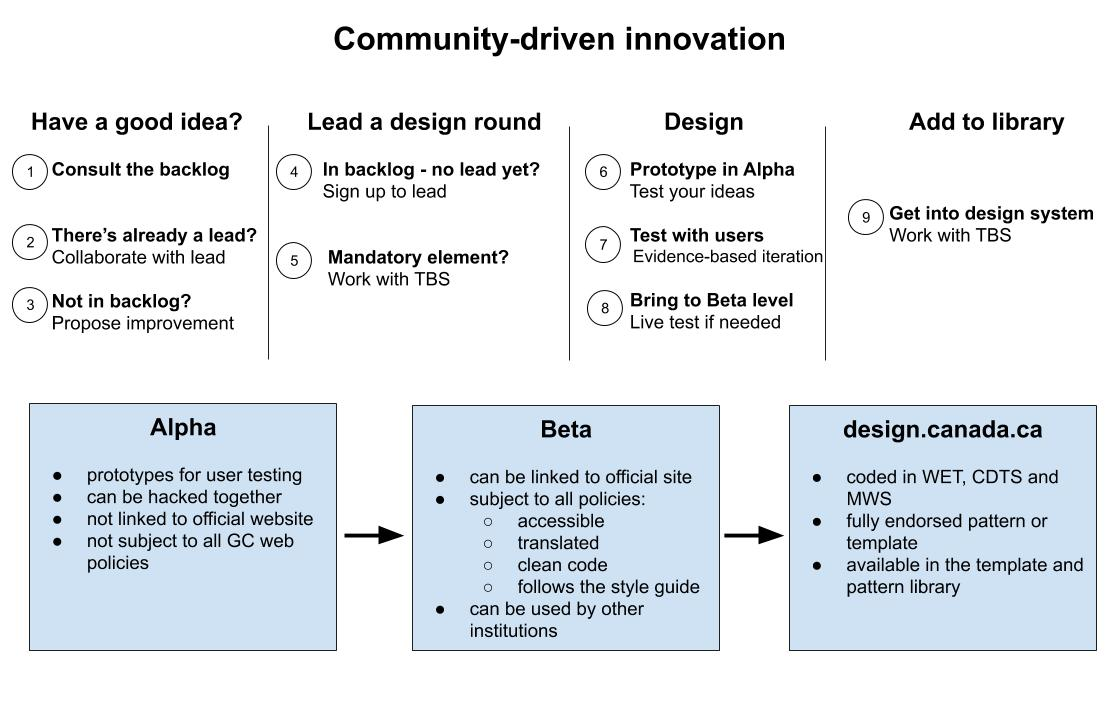
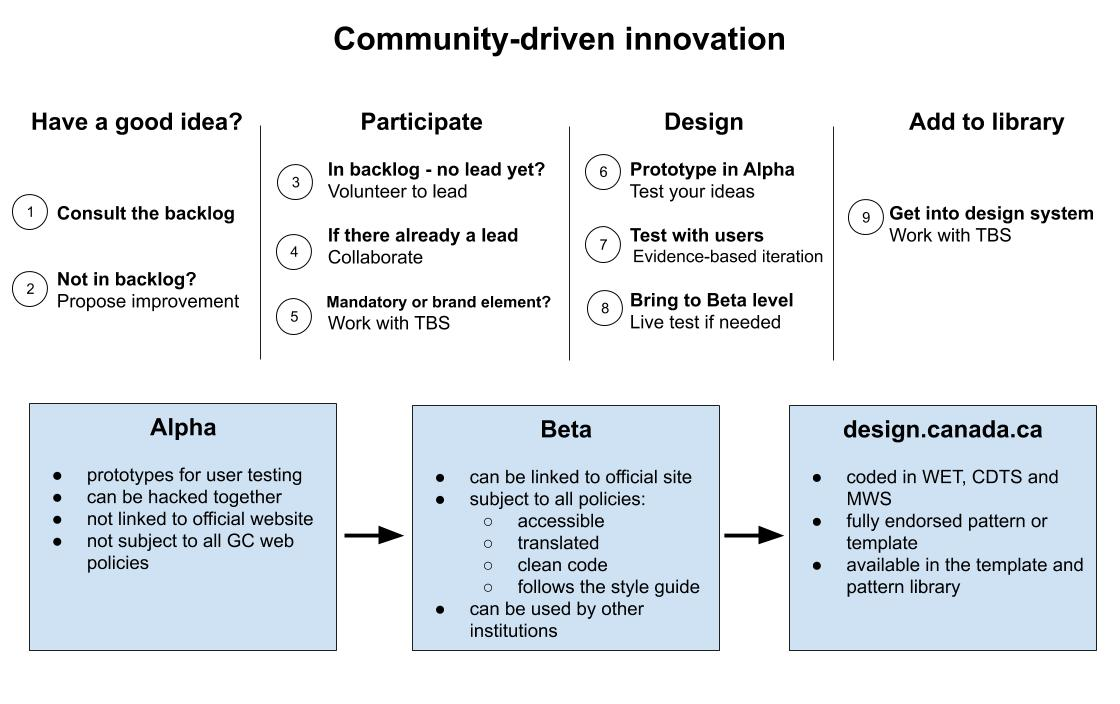
Change to wording

diff --git a/backlog/improvement-process.html b/backlog/improvement-process.html
@@ -61,8 +61,8 @@
 <h2>On this page</h2>
 	<ul>
 	<li><a href="#overall">Overall process</a></li>
-	<li><a href="#backlog">Backlog</a></li>
-	<li><a href="#leading">Leading a design round</a></li>
+	<li><a href="#backlog">Improvement backlog</a></li>
+	<li><a href="#leading">Participate in a design round</a></li>
 	<li><a href="#design">Design and test the new or updated pattern</a></li>
 	<li><a href="#add">Add to template and pattern library</a></li>
 	</ul>
@@ -86,11 +86,11 @@
 
 <img class="pattern-demo" src="Design_system_improvement.jpg" alt="Overall process to contribute to the Canada.ca design sytem">
 <p>*** Need long description***</p>
-<h2 id="backlog">Backlog</h2>
+<h2 id="backlog">Improvement backlog</h2>
 <p>TBS maintains 2 lists of improvements to make the Canada.ca design system:</p>
 <ul>
-<li><a href="./index.html">Backlog of patterns and templates</a></li>
-<li>***Backlog of minor improvements or corrections (to create)***</li>
+<li><a href="./index.html">Backlog of improvements to the pattern and template library</a></li>
+<li><a href="./minor-backlog.html">Backlog of minor improvements and corrections</a></li>
 </ul>
 <p>This process concerns the improvement to existing patterns and template and the introduction of new ones.</p>
 
@@ -104,11 +104,6 @@
 <li>new pattern or template is needed to fill a gap in the design system</li>
 </ul>
 <p>Before suggesting an improvement, consult the <a href="./index.html">backlog</a> to determine if it has already been identified.</p>
-
-<h3>If there is already an institution leading an improvement on the pattern or template</h3>
-<p>If your suggestion is already in the backlog, and another institutions is already identified as the lead, contact the lead institution to see how you can collaborate during this design round.</p>
-
-<p>Do not start working on a pattern on your own separately from the lead department. If the issues you identified cannot be addressed in this design round, there will always be the possibility to start another round once the current one is deployed.</p>
 
 <h3>If your suggestion is not the backlog</h3>
 
@@ -126,22 +121,32 @@
 
 <p>You can suggest an improvement even if you can’t commit to work on it, and that you don’t need to already have a designed solution. The first step is to document the gaps in the design system.</p>
 
-<h2 id="leading">Leading a design round</h2>
-<p>If you want to lead a design round on a pattern or template identified in the backlog, you can sign up.</p>
+<h2 id="leading">Participate in a design round</h2>
 
-<h3>Sign up to lead a design round</h3>
-<p>To sign up to lead a design round, you need to commit to the following:</p>
+<p>A design round to propose an improvement to the pattern library can be led by any department.</p>
+
+<p>Before participating in a design round, verify if there's already an institution leading a design round.</p>
+
+<h3>If there are no design lead yet</h3>
+
+<p>To lead a design round, you need to commit to the following:</p>
 <ul>
 <li>test your prototype with users to determine if the design addresses the issue</li>
 <li>establish a timeframe for completing the work</li>
 <li>work in the open and consider input from other institutions</li>
 </ul>
 
-<h3>Mandatory element of the Canada.ca design system</h3>
+
+<h3>If there already is a lead</h3>
+<p>If you you want to participate in a design round and there is already a lead for it, contact the lead institution to see how you can collaborate during this design round.</p>
+
+<p>Do not start working on a pattern on your own separately from the lead department. If the issues you identified cannot be addressed in this design round, there will always be the possibility to start another round once the current one is deployed.</p>
+
+<h3>Mandatory or brand element of the Canada.ca design system</h3>
 
 <p>Updates to the mandatory elements of the Canada.ca design system have to be handled with care, as they have an impact on all institutions.</p>
 
-<p>If you are the lead of a design round that impacts a mandatory element:</p>
+<p>If you are the lead of a design round that impacts a mandatory or brand element:</p>
 <ul>
 <li>TBS will act as the co-lead of the design round: an initial meeting will need to be set up</li>
 <li>input from other departments will need to be actively sought after</li>
@@ -173,9 +178,7 @@
 <li>it is not solely based on “impressions” and satisfaction, but on task completion: does it help people complete specific tasks</li>
 <li>It is imperative to perform this step in the open, and allow other institutions to share their views, concerns, or tests they already performed on it. </li>
 </ul>
-<p>***Link to resources? Maybe an “How to” on Alpha?****</p>
 
-<p>***Need info on how the collaboration will work - is it through Issues in GitHub? What about the less tech savvy people or the comms community?***</p>
 <p>A design round doesn’t necessarily need to solve all issues identified by every institution on the specific pattern. Once an improvement is deployed, a pattern or template can always be added back to the backlog and be the subject of another improvement round.</p>
 
 
@@ -188,7 +191,7 @@
 <li>available in both official languages</li>
 <li>accessible (meets level AA of WCAG 2.0 requirements)</li>
 <li>responsive</li>
-<li>***fully code following best practices - if they work for your purpose, use WET classes (no idea what this entails)***</li>
+<li>fully coded, following best practices - if they work for your purpose, use WET classes</li>
 <li>follow the Canada.ca design system mandatory elements (unless it aims at modifying one these mandatory elements)</li>
 </ul>
 <p>Make the design accessible to the public in Beta to see:</p>

diff --git a/backlog/minor-backlog.html b/backlog/minor-backlog.html
@@ -1,0 +1,122 @@
+<!DOCTYPE html>
+<!--[if lt IE 9]><html class="no-js lt-ie9" lang="en" dir="ltr"><![endif]-->
+<!--[if gt IE 8]><!--><html class="no-js" lang="en" dir="ltr"><!--<![endif]-->
+	<head>
+		<meta charset="utf-8">
+		<!-- Web Experience Toolkit (WET) / Boîte à outils de l'expérience Web (BOEW) wet-boew.github.io/wet-boew/License-en.html / wet-boew.github.io/wet-boew/Licence-fr.html -->
+		<title>Design system: Minor backlog - Canada.ca</title>
+		<meta content="width=device-width,initial-scale=1" name="viewport">
+		<!-- Meta data -->
+		<!-- Meta data-->
+		<!-- Load closure template scripts -->
+		<script type="text/javascript" src="https://www.canada.ca/etc/designs/canada/cdts/gcweb/v4_0_30/cdts/compiled/soyutils.js"></script>
+		<script type="text/javascript" src="https://www.canada.ca/etc/designs/canada/cdts/gcweb/v4_0_30/cdts/compiled/wet-en.js"></script>
+
+		<!-- Write closure template -->
+		<script type="text/javascript">
+			document.write(wet.builder.refTop({
+			}));
+		</script>
+	</head>
+	<body vocab="http://schema.org/" typeof="WebPage">
+		<div id="def-top">
+		</div>
+		<!-- Write closure template -->
+		<script type="text/javascript">
+			var defTop = document.getElementById("def-top");
+			defTop.outerHTML = wet.builder.top({
+				lngLinks: [{
+					lang: "fr",
+					href: "#",
+					text: "Français"
+				}],
+				breadcrumbs: [{
+					title: "Home",
+					href: "https://www.canada.ca/en.html"
+				},{
+					title: "About Canada.ca",
+					href: 'https://www.canada.ca/en/government/about.html'
+				},{
+					title: "Canada.ca design system",
+					href: 'https://www.canada.ca/en/government/about/design-system.html'
+				}],
+				search: true,
+				siteMenu: true,
+				showPreContent: true
+			});
+</script>
+
+<main role="main" property="mainContentOfPage" class="container">
+
+
+<h1 property="name" id="wb-cont" dir="ltr">Canada.a design system minor corrections backlog</h1>
+
+
+
+<div><div class="mwsgeneric-base-html parbase section">
+
+<p>This is a list of minor corrections of improvements needed to the Canada.ca design system. </p>
+<p>Go to <a href="./improvement-process.html">Design system improvement process</a> for more information on the process to follow to improve an element of the design system.</p>
+
+<table class="wb-tables table table-striped"data-wb-tables="{ &quot;paging&quot;: false }">
+    <thead>
+
+     <tr>
+
+     <th scope="col">Pattern/template</th>
+
+<!-- <th scope="col">Update or new</th> -->
+<th scope="col">Status</th>
+     <th scope="col" style="min-width:350px!important;">Description</th>
+
+     <th scope="col">Lead department</th>
+
+     <th scope="col">Partners</th>
+
+<tbody>
+
+	<tr>
+		<td><a href="../common-design-patterns/splash-pages.html">Splash page</a></td>
+		<td>In progress</td>
+		<td>Provide coding and guidance for institution that still need a splash page</td>
+		<td>Treasury Board Secretariat</td>
+		<td>NA</td>
+	</tr>
+
+</tbody>
+</table>
+
+</div>
+
+</div>
+<div id="def-preFooter">
+</div>
+<!-- Write closure template -->
+<script type="text/javascript">
+	var defPreFooter = document.getElementById("def-preFooter");
+	defPreFooter.outerHTML = wet.builder.preFooter({
+		dateModified: "April 1, 2019",
+		showPostContent: true,
+		showFeedback: true,
+		showShare: true
+	});
+</script>
+		</main>
+		<div id="def-footer">
+
+		</div>
+		<!-- Write closure template -->
+		<script type="text/javascript">
+			var defFooter = document.getElementById("def-footer");
+			defFooter.outerHTML = wet.builder.footer({
+				showFooter: true,
+				showFeatures: true
+			});
+		</script>
+		<!-- Write closure template -->
+		<script type="text/javascript">
+			document.write(wet.builder.refFooter({
+			}));
+		</script>
+	</body>
+</html>
